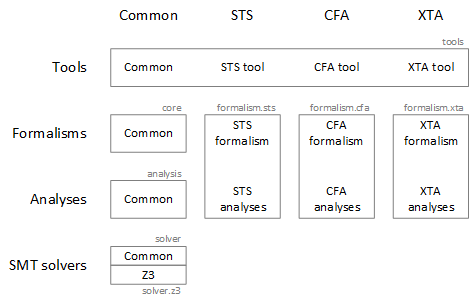
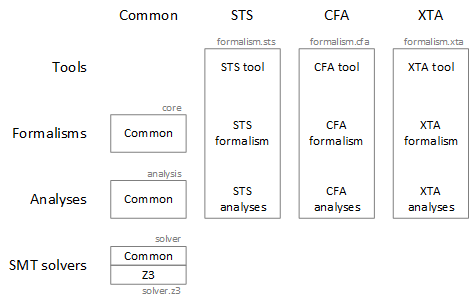
Reorganized docs

diff --git a/README.md b/README.md
@@ -9,11 +9,18 @@
 _Theta_ is a generic, modular and configurable model checking framework developed at the [Fault Tolerant Systems Research Group](http://inf.mit.bme.hu/en) of [Budapest University of Technology and Economics](http://www.bme.hu/?language=en), aiming to support the design and evaluation of abstraction refinement-based algorithms for the reachability analysis of various formalisms.
 The main distinguishing characteristic of Theta is its architecture that allows the definition of input formalisms with higher level language front-ends, and the combination of various abstract domains, interpreters, and strategies for abstraction and refinement.
 
-## Get Theta
+## Overview of the architecture
 
-* Clone the repository.
-* Build the projects from the command line by executing `gradlew.bat build` (Windows) or `./gradlew build` (Linux) from the root directory.
-* On Windows, some libraries are required from the [Microsoft Visual C++ Redistributable package](https://www.microsoft.com/en-us/download/details.aspx?id=48145). Install it, or just go into the `lib` folder and execute `Download-VCredist.ps1`, which will download the required libraries.
+Theta can be divided into the following four layers.
+
+* **Formalisms**: The core elements of Theta are the formalisms, which represent models of real life systems (e.g., software, hardware, protocols). Formalisms are usually low level, mathematical representations based on first order logic expressions and graph like structures. Formalisms can also support higher level languages that can be mapped to that particular formalism by a language front-end (consisting of a specific parser and possibly reductions for simplification of the model). The common features of the different formalisms reside in the `hu.bme.mit.theta.core` project (e.g., expressions) and each formalism has its own project starting with the name `hu.bme.mit.theta.formalism.*`. Currently, there are three formalisms: symbolic transition systems (`sts`), control-flow automata (`cfa`) and timed automata (`xta`).
+* **Analysis back-end**: The analysis back-end provides the verification algorithms that can formally prove whether a model meets certain requirements. There is an interpreter for each formalism, providing a common interface towards the algorithms (e.g., calculating initial states and successors). This ensures that most components of the algorithms work for all formalisms (as long as they provide the interpreter). The verification algorithms are mostly based on abstraction. The analysis back-end defines various abstract domains, strategies for performing abstraction and refinement, and algorithms built from these components. The common components reside in the `hu.bme.mit.theta.analysis` project (e.g., CEGAR loop) and the formalism-specific modules (e.g., the interpreters) are implemented in the project of the given formalism (`hu.bme.mit.theta.formalism.*`).
+* **SMT solver interface and SMT solvers**: Many components of the algorithm rely on satisfiability modulo theories (SMT) solvers. The framework provides a general SMT solver interface in the project `hu.bme.mit.theta.solver` that supports incremental solving, unsat cores, and the generation of binary and sequence interpolants. Currently, the interface is implemented by the SMT solver [Z3](https://github.com/Z3Prover/z3) in the project `hu.bme.mit.theta.solver.z3`, but it can easily be extended with new solvers.
+* **Tools**: Tools are command line applications that can be compiled into a runnable jar file. Tools usually read some input and then instantiate and run the algorithms. Tools are implemented in the project of the formalism on which they work (`hu.bme.mit.theta.formalism.*`).
+
+The figure below shows the architecture and the projects (without the `hu.bme.mit.theta` prefix). Each project contains a README.md in its root directory describing its purpose in more detail.
+
+![Architecture](doc/images/architecture.png)
 
 ## Use Theta
 
@@ -25,7 +32,7 @@ Tools are concrete instantiations of the framework to solve a certain problem us
 
 ## Extend Theta
 
-If you want to extend Theta and build your own algorithms and tools, then take look at [doc/For-developers.md](doc/For-developers.md), [doc/Architecture.md](doc/Architecture.md) and [Coding-conventions.md](doc/Coding-conventions.md).
+If you want to extend Theta and build your own algorithms and tools, then take look at [doc/For-developers.md](doc/For-developers.md) and [doc/Coding-conventions.md](doc/Coding-conventions.md).
 
 ## Read more
 

diff --git a/doc/For-developers.md b/doc/For-developers.md
@@ -24,4 +24,5 @@ The projects are currently developed and tested with [Eclipse Oxygen](https://ww
 * To import the projects, choose _File / Import..._ / _Gradle_ / _Existing Gradle Project_, specify the root directory and use the default settings.
 * At this point the projects may contain errors (due to some files not being generated). Open a console at the repository root directory and type `./gradlew build` on Linux or `gradlew.bat build` on Windows. After the `BUILD SUCCESSFUL` message, refresh the projects in Eclipse.
 * If you use the Z3 solver, open the project `hu.bme.mit.theta.solver.z3` and right click on `com.microsoft.z3.jar` under _Project and External Dependencies_. Select _Build path_ / _Configure Build Path..._ and on the _Libraries_ tab select the _Native library location_ entry under _Project and External Dependencies_. Click on _Edit_ and browse the _lib_ folder that is in the root directory of the repository.
+  * If you work on Windows, read the README in the _lib_ directory.
 * There is a code formatting profile (ThetaFormatterProfile.xml) in this directory. In Eclipse, go to _Window_ / _Preferences_ / _Java_ / _Code Style_ / _Formatter_ and import the profile. You can enable automatic formatting on save under _Java_ / _Editor_ / _Save Actions_.

diff --git a/hu.bme.mit.theta.formalism.sts/README.md b/hu.bme.mit.theta.formalism.sts/README.md
@@ -37,6 +37,6 @@ The AIGER frontend can parse _aag_ (version 1.7) files into STSs. For more infor
 
 ## Tool
 
-The tool can be built using the command `./gradlew theta-sts` (Linux) or `gradle.bat theta-sts` (Windows). The runnable file will appear under _build/libs_. The tool also requires the libraries in the _../lib_ folder.
+The tool can be built using the command `./gradlew theta-sts` (Linux) or `gradle.bat theta-sts` (Windows). The runnable file will appear under _build/libs_. The tool also requires the libraries in the _../lib_ folder (if you work on Windows, also read the README there).
 
 The tool can be run with `java -jar theta-sts.jar [arguments]`. If no arguments are given, a help screen is displayed about the arguments and their possible values. For example, put the example above in a file called `counter.system` and call `java -jar theta-sts.jar -m counter.system -d EXPL -r SEQ_ITP -ll 3`.

diff --git a/hu.bme.mit.theta.formalism.cfa/README.md b/hu.bme.mit.theta.formalism.cfa/README.md
@@ -43,6 +43,6 @@ main process counter {
 
 ## Tool
 
-The tool can be built using the command `./gradlew theta-cfa` (Linux) or `gradle.bat theta-cfa` (Windows). The runnable file will appear under _build/libs_. The tool also requires the libraries in the _../lib_ folder.
+The tool can be built using the command `./gradlew theta-cfa` (Linux) or `gradle.bat theta-cfa` (Windows). The runnable file will appear under _build/libs_. The tool also requires the libraries in the _../lib_ folder (if you work on Windows, also read the README there).
 
 The tool can be run with `java -jar theta-cfa.jar [arguments]`. If no arguments are given, a help screen is displayed about the arguments and their possible values. For example, put the example above in a file called `counter.cfa` and call `java -jar theta-cfa.jar -m counter.cfa -d EXPL -r SEQ_ITP -ll 3`.

diff --git a/lib/README.md b/lib/README.md
@@ -1,0 +1,1 @@
+On Windows, _libz3.dll_ requires some libraries from the [Microsoft Visual C++ Redistributable package](https://www.microsoft.com/en-us/download/details.aspx?id=48145). Install it, or just execute `Download-VCredist.ps1`, which will download the required libraries.
